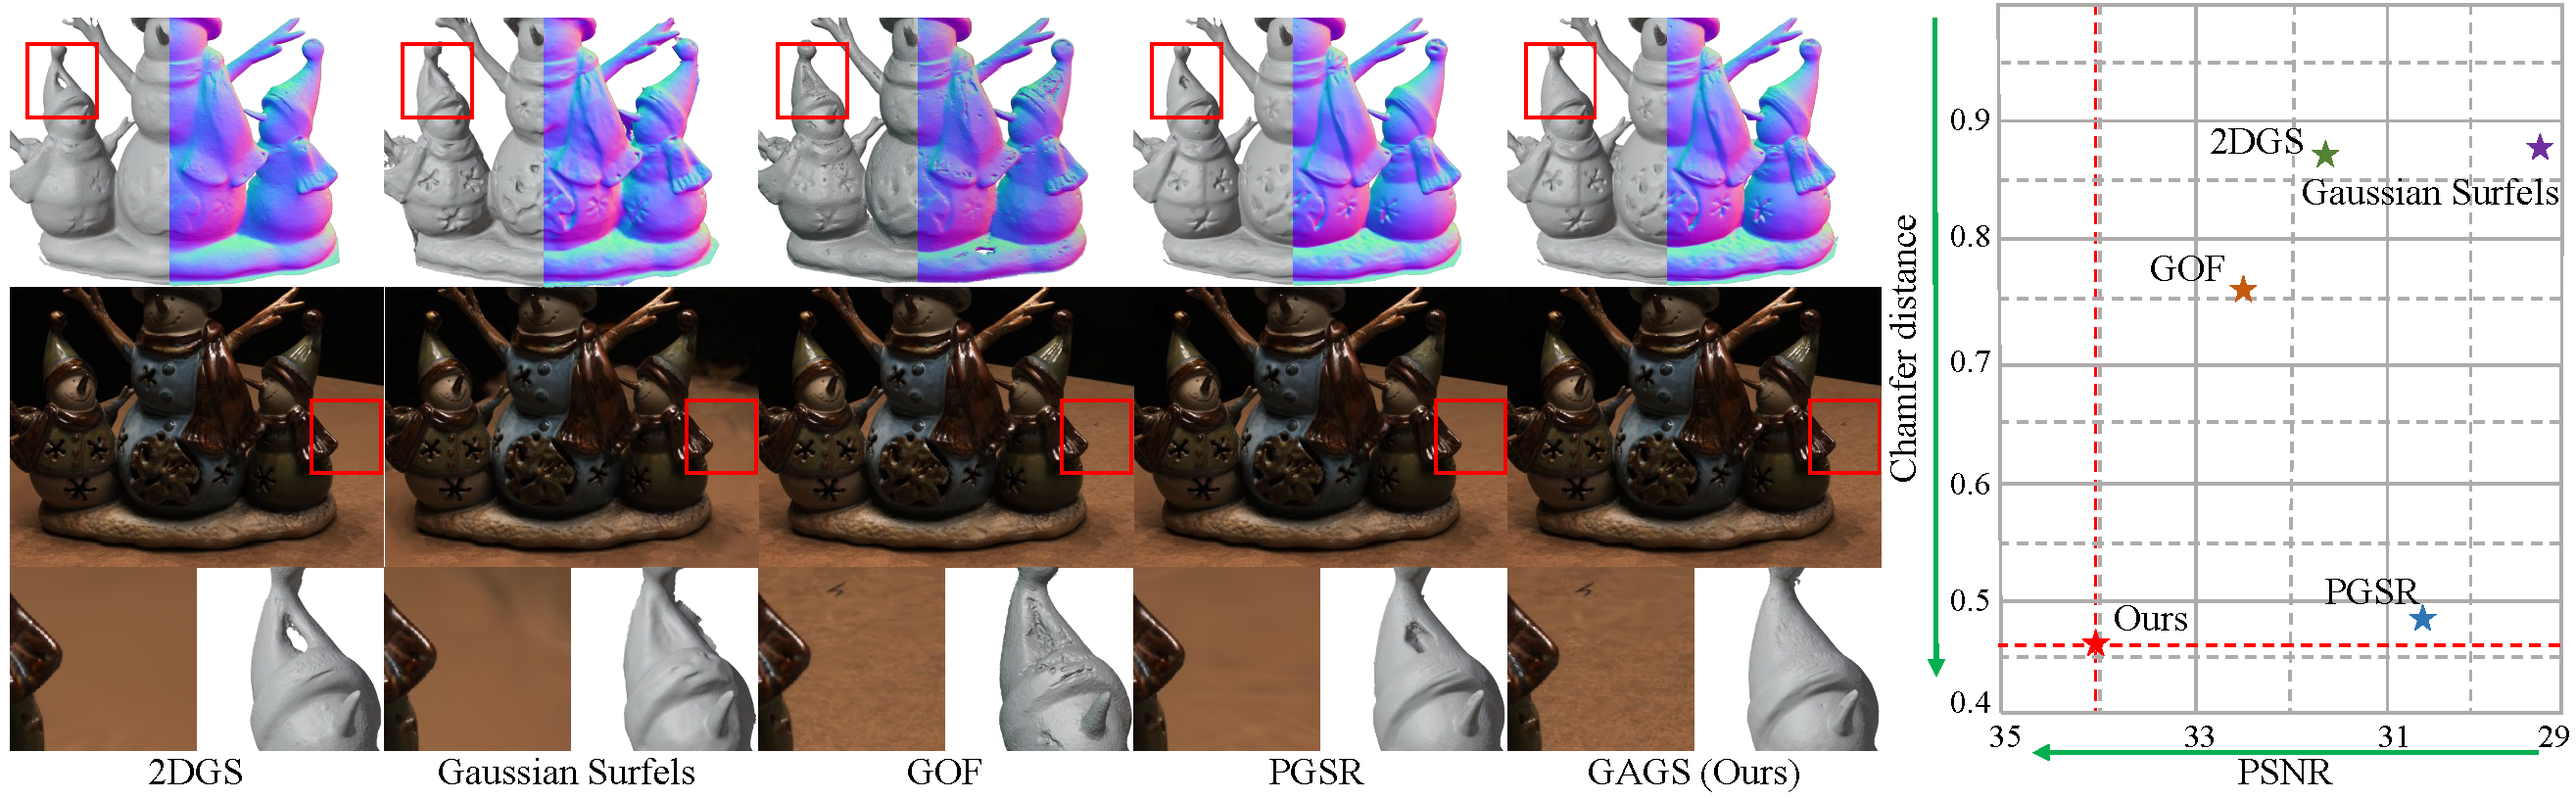
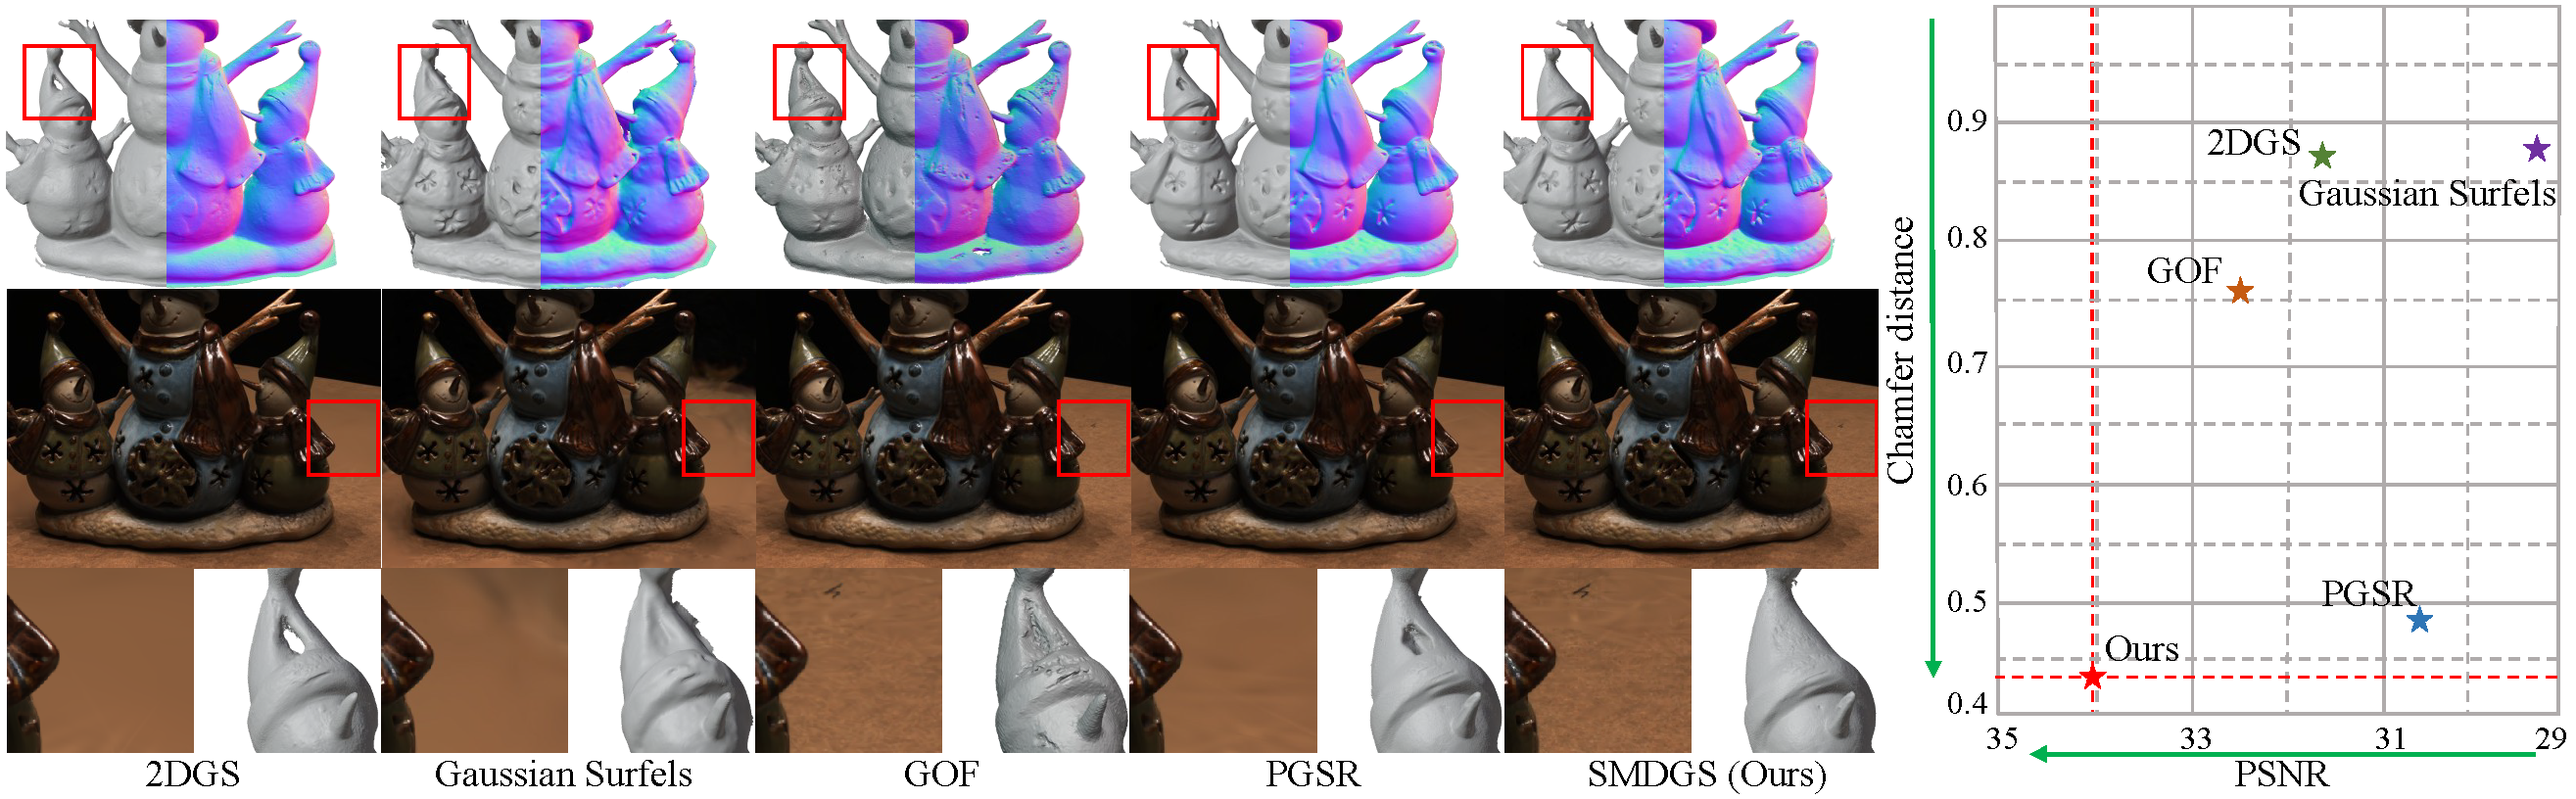
update

diff --git a/docs/index.html b/docs/index.html
@@ -54,7 +54,7 @@
       <div class="container is-max-desktop">
         <div class="columns is-centered">
           <div class="column has-text-centered">
-            <h1 class="title is-1 publication-title" >GAGS: Geometry Aware-Guided 3D Gaussian Splatting for High-Quality Rendering and Surface Reconstruction</h1>
+            <h1 class="title is-1 publication-title" >SMDGS: Scale-aligned Monocular Depth-guided 3D Gaussian Splatting for Rendering and Surface Reconstruction</h1>
             <div class="is-size-5 publication-authors">
               <!-- Paper authors -->
               <span class="author-block">
@@ -116,7 +116,7 @@
 
                   <!-- Github link -->
                   <span class="link-block">
-                    <a href="https://github.com/VerseWei/GAGS" target="_blank"
+                    <a href="https://github.com/VerseWei/SMDGS" target="_blank"
                     class="external-link button is-normal is-rounded is-dark">
                     <span class="icon">
                       <i class="fab fa-github"></i>
